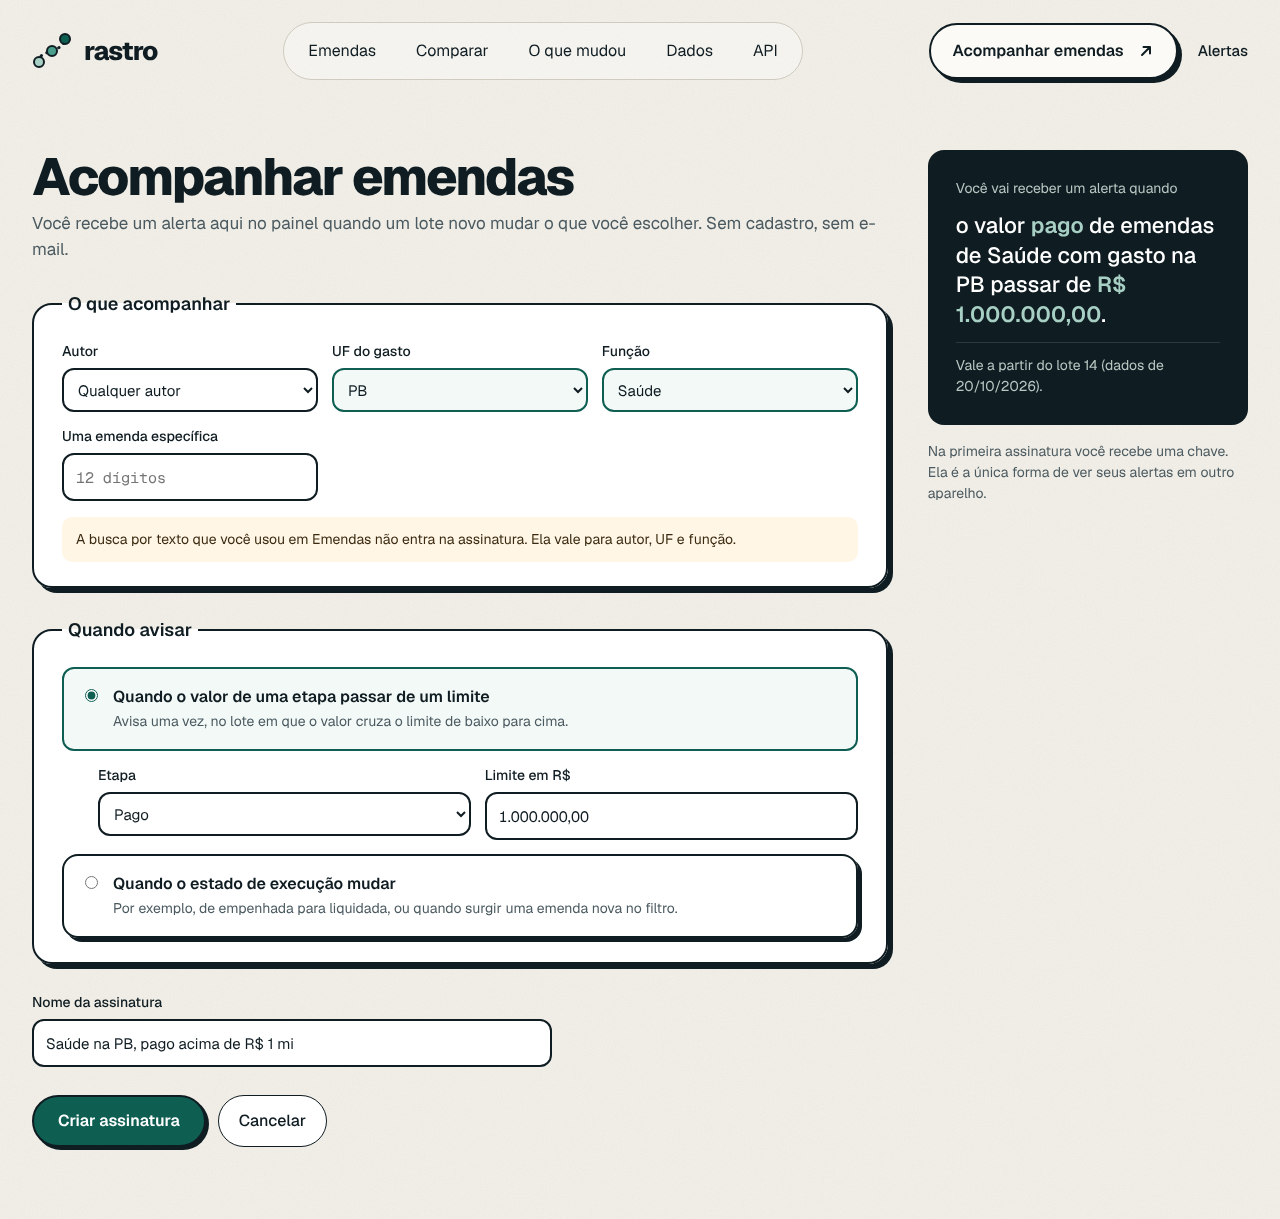
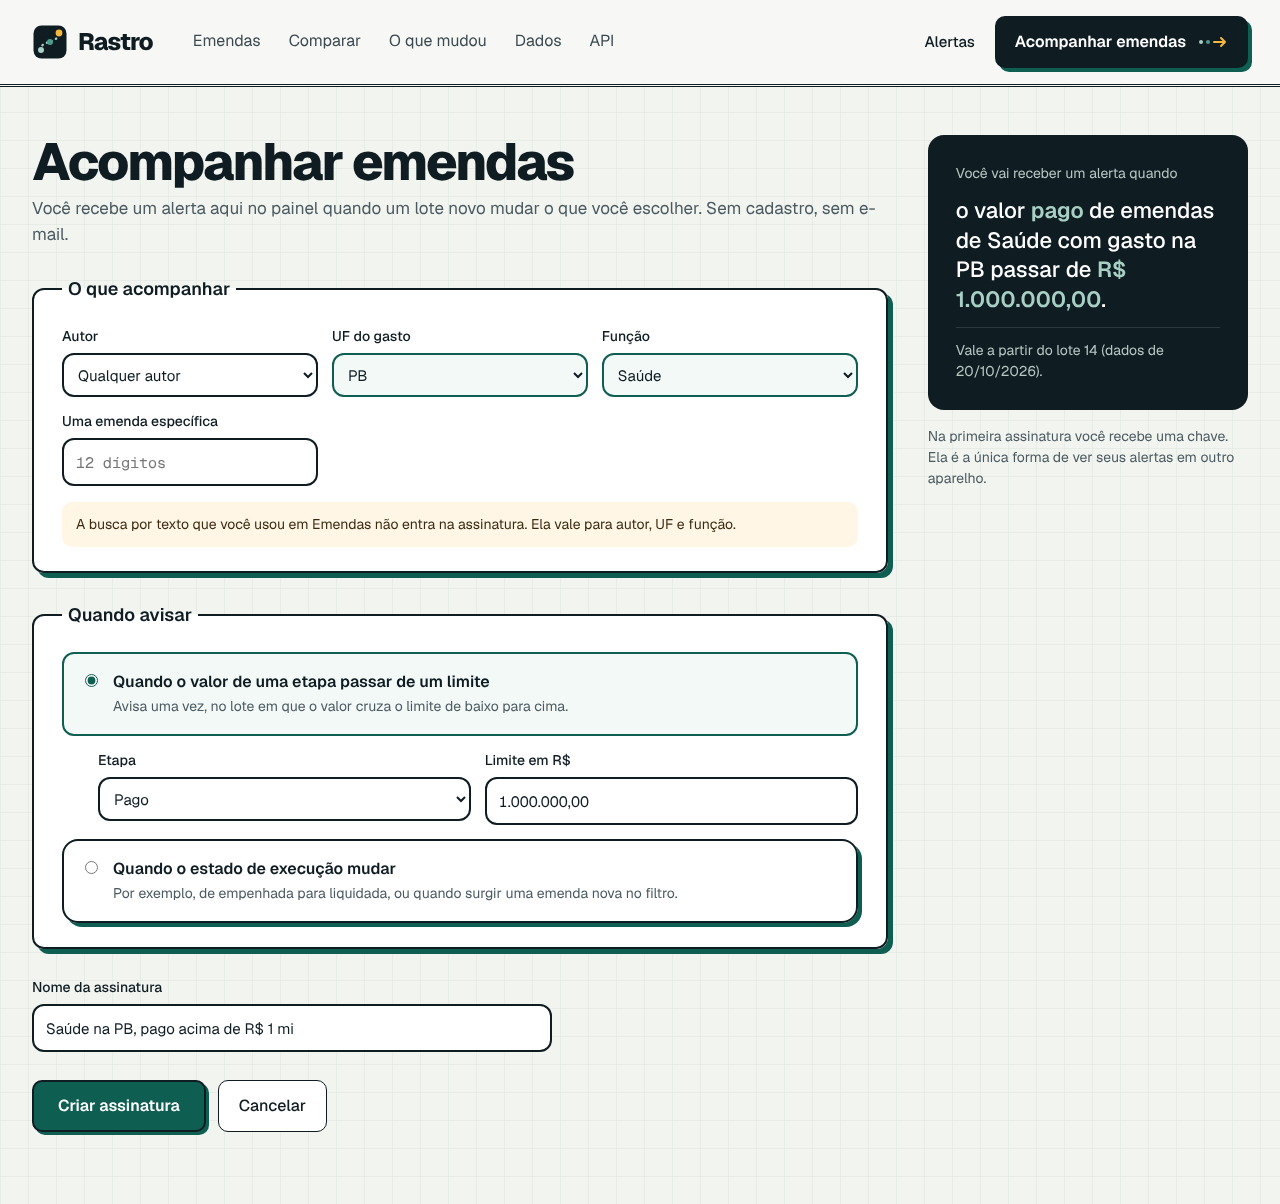
Identidade visual própria: livro-razão, régua dupla, trilha pontilhada e sombra verde
Claude-Session: https://claude.ai/code/session_01ETNU5uQUMK4aChQjZRdReK

diff --git a/especificacoes/joao-vitor/telas/diretrizes.md b/especificacoes/joao-vitor/telas/diretrizes.md
@@ -39,8 +39,9 @@ Valem para todas as fichas de tela. As fichas não repetem estas diretrizes; reg
 
 - **Ideia central: a trilha.** O mesmo elemento visual aparece em todas as telas com valores: uma barra única em que o empenhado é a trilha inteira e o liquidado e o pago a preenchem por dentro. Ela mostra quanto do dinheiro reservado já avançou, sem somar etapas. A cor segue uma escala sequencial de um só tom (claro → escuro = empenhado → liquidado → pago), e cada etapa sempre tem também o rótulo escrito.
 - **Tipografia:** Geist (interface, títulos e números, com algarismos tabulares) e Geist Mono só para identificadores (código da emenda, hash, CLI). Títulos em peso 800 com tracking negativo; corpo de 16 px; escala 13/15/16/20/26/38/52/76.
-- **Superfícies:** fundo de papel `#F3F1EA` com textura leve. Cartões, campos e botões têm borda de tinta `#0F1C22` (1,5–2 px) e sombra dura deslocada (3–7 px), que afunda ao clicar. O cabeçalho tem a navegação dentro de uma pílula com contorno e a ação principal "Acompanhar emendas" à direita.
-- **Paleta:** tinta `#0F1C22`, texto secundário `#3B4A50`/`#4B5A60` (contraste ≥ 7:1 sobre o papel), verde-pinho `#0E5E52` para ações e links, escala da trilha `#A7CFC4` / `#4A9E8B` / `#0E5E52`, âmbar `#F5B83D` só como destaque (moeda, contador de alertas, faixa de mudanças).
+- **Superfícies — "livro-razão":** fundo `#F2F4F0` com quadriculado fino, como papel de registro contábil. O cabeçalho fecha com uma régua dupla. Cartões, campos e botões têm borda de tinta `#0F1C22` (1,5–2 px), cantos retos de 10–12 px e sombra deslocada **verde-pinho**, que afunda ao clicar. Na navegação, a página atual é marcada por uma trilha pontilhada sob o nome. A ação principal "Acompanhar emendas" é um botão escuro com o ícone da trilha.
+- **Inspiração declarada:** a energia de sites estudantis com cara de papel e botões "táteis" (bordas grossas e sombra dura). A identidade (quadriculado, régua dupla, trilha pontilhada, sombra verde, marca quadrada com as três etapas) é própria do Rastro.
+- **Paleta:** papel `#F2F4F0`, tinta `#0F1C22`, texto secundário `#3B4A50`/`#4B5A60` (contraste ≥ 7:1 sobre o papel), verde-pinho `#0E5E52` para ações e links, escala da trilha `#A7CFC4` / `#4A9E8B` / `#0E5E52`, âmbar `#F5B83D` só como destaque (moeda, contador de alertas, faixa de mudanças).
 - **Movimento:** uma entrada suave por tela, as moedas correndo na trilha da P01 e a faixa de mudanças. Tudo para com `prefers-reduced-motion`.
 - **Inspira:** a clareza de produtos de dados com interface sóbria (painéis densos e legíveis, tabelas com números alinhados à direita) e o padrão de formulários do GOV.UK Design System (rótulo visível, erro junto ao campo).
 - **Evitar:**
